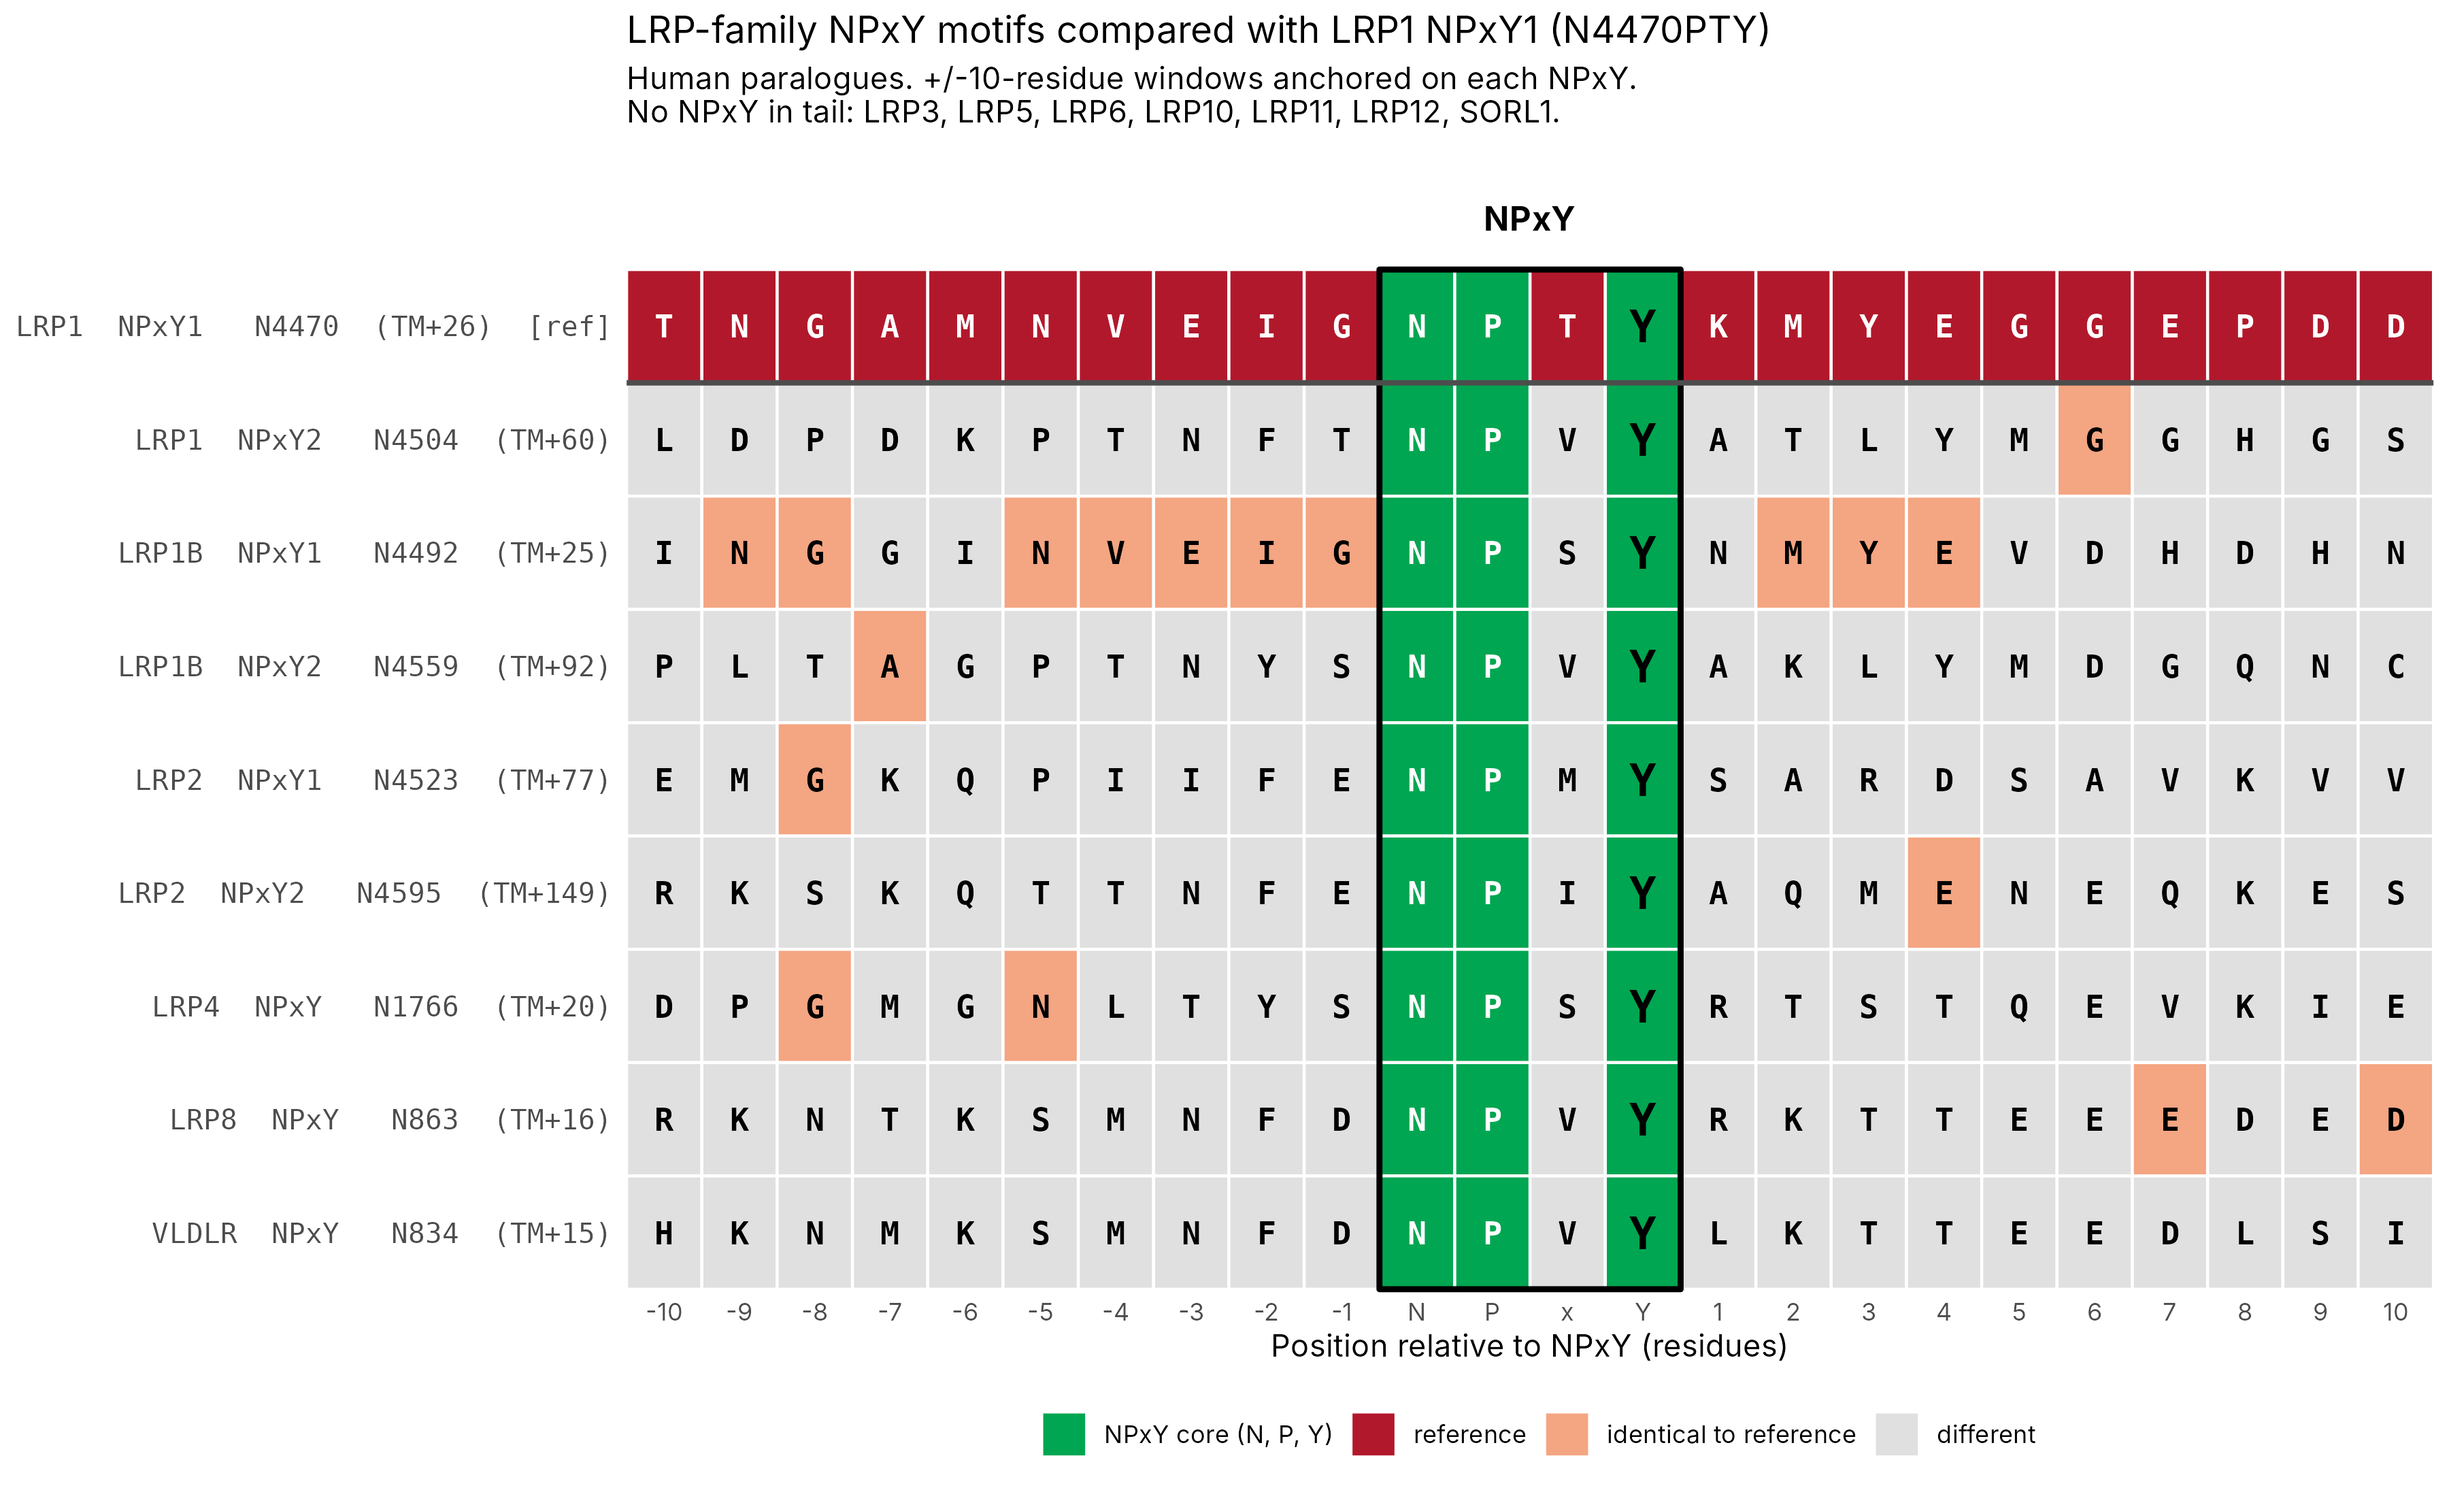
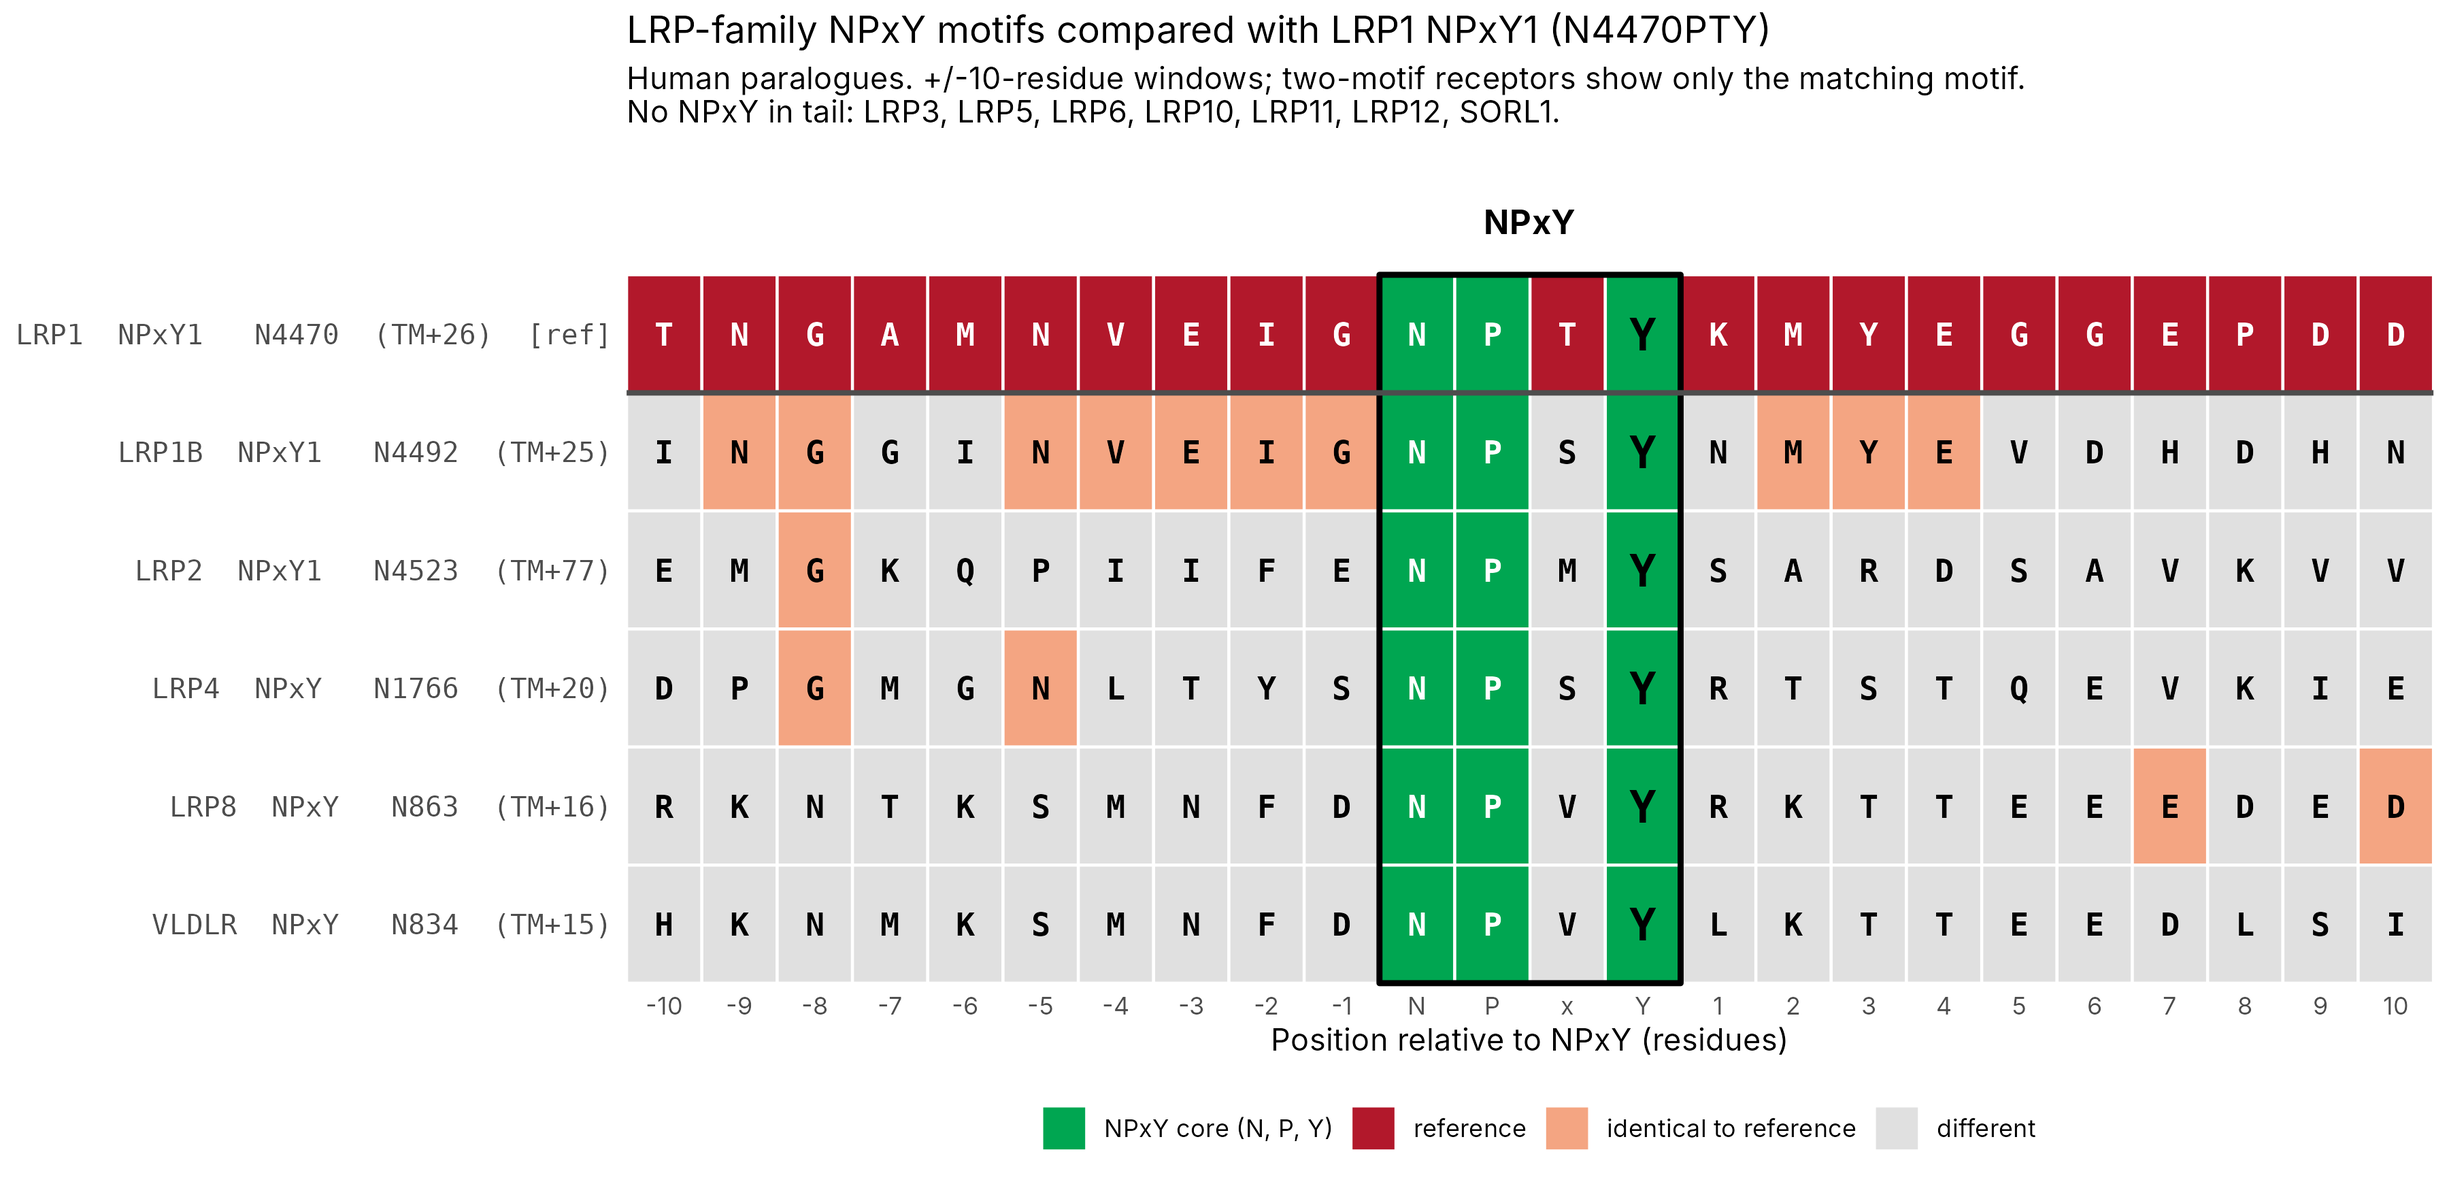
LRP NPxY plots: show only the corresponding motif for two-motif receptors
Claude-Session: https://claude.ai/code/session_01DNpeWnaSHNG7EnKDYYP3oL

diff --git a/README.md b/README.md
@@ -74,7 +74,7 @@ Organism silhouettes are hand-drawn vectors (`draw_icons_svg.py`, SVG + PNG in `
 
 The cytoplasmic tails of 13 human receptors are compared with each other, not across species: LRP1, LRP1B, LRP2, LRP3, LRP4, LRP5, LRP6, LRP8, LRP10, LRP11, LRP12, VLDLR and SORL1. All sequences were checksum-verified against UniProt.
 
-**Method:** windows of ±10 residues are anchored on each NPxY that lies after the annotated transmembrane helix. All motifs are compared with LRP1 NPxY1 (N4470PTY) in `figures/fig8a_LRP_NPxY_ref_LRP1-NPxY1.png`, and with LRP1 NPxY2 (N4504PVY) in `figures/fig8b_LRP_NPxY_ref_LRP1-NPxY2.png`.
+**Method:** windows of ±10 residues are anchored on each NPxY that lies after the annotated transmembrane helix. Each motif is compared with LRP1 NPxY1 (N4470PTY) in `figures/fig8a_LRP_NPxY_ref_LRP1-NPxY1.png` and with LRP1 NPxY2 (N4504PVY) in `figures/fig8b_LRP_NPxY_ref_LRP1-NPxY2.png`. For the two-motif receptors (LRP1B, LRP2), each figure shows only the motif that corresponds to the reference; the single-motif receptors (LRP4, LRP8, VLDLR) appear in both.
 
 **Receptors with NPxY:**
 - **Two motifs each:** LRP1, LRP1B and LRP2. The second, distal motif in all three is NPVY/NPIY preceded by N-F/N-x (an FxNPxY-like context).
